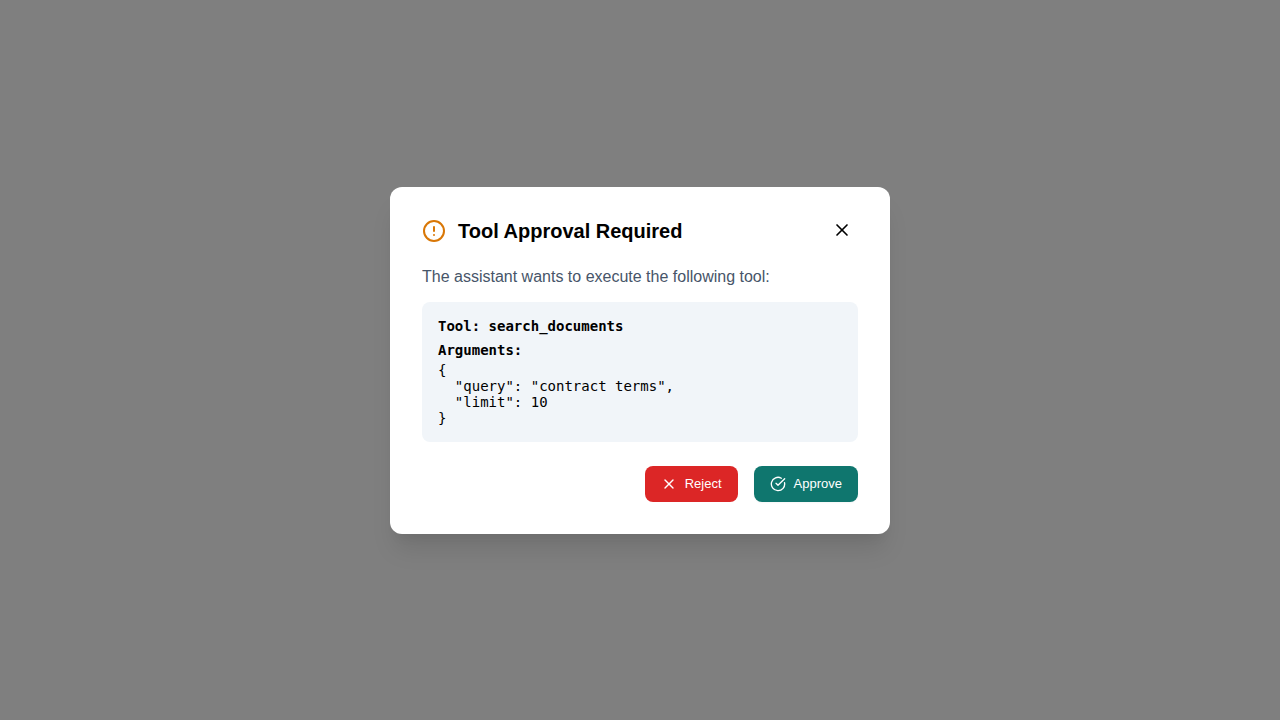
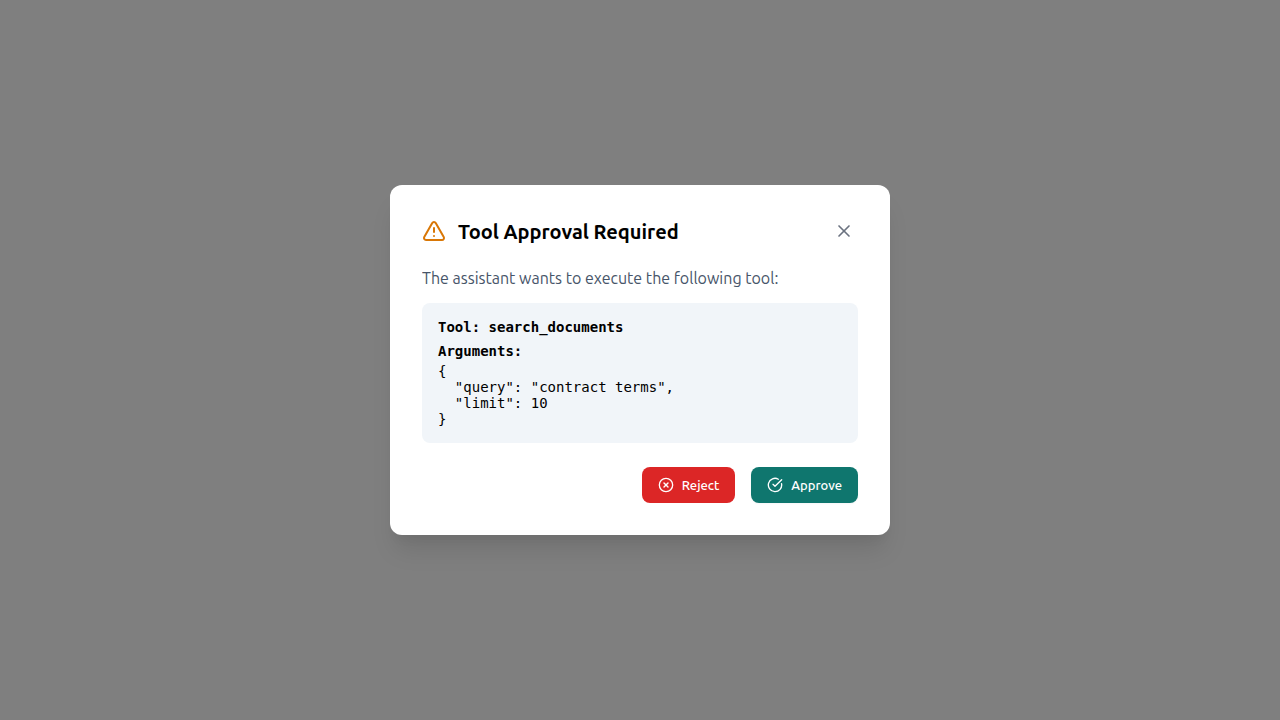
Address PR review: AnimatePresence + a11y + maxHeight precision
Addresses Claude review on #1787:
- Wrap ApprovalDialog inside AnimatePresence with conditional rendering at
  the parent level in both CorpusChat and ChatTray so framer-motion's exit
  variants actually fire on dismiss (previous always-mounted form returned
  null internally and AnimatePresence never observed an unmount).
- ApprovalDialog API: drop redundant `show` prop, require non-null
  `pendingApproval` — gating now lives in the parent.
- maxHeight: calc(100% - 2rem) instead of 100% to account for the
  backdrop's 1rem padding on each side.
- Add role="dialog" + aria-modal="true" + aria-labelledby on the modal
  for screen reader semantics.
- Trim multi-line JSDoc block per CLAUDE.md "one short line max".
- Keep screenshot tag chat--approval-modal--pending stable per
  CLAUDE.md's "filename IS the contract" rule.

Also fixes the CT regression from the close-button change:
- ChatTray.ct.tsx "reopens approval modal when dismissed" was selecting
  the close button by `button:has-text("✕")`; after the unicode→lucide
  swap the selector found nothing. Switched to the canonical
  `getByRole("button", { name: "Close approval modal" })`.

Tests:
- ApprovalDialog.ct.tsx: 6/6 passing (replaced obsolete show=false and
  null-pendingApproval tests with a close-button-callback test that
  exercises the new aria-label).
- ChatTray.ct.tsx: 32/32 passing.
- CorpusChat.ct.tsx: 36/36 passing.
- Full CT suite: 1888 passing, 1 unrelated flake (CamlArticleEditor
[…]

diff --git a/frontend/tests/ApprovalDialog.ct.tsx b/frontend/tests/ApprovalDialog.ct.tsx
@@ -20,7 +20,6 @@ test.describe("ApprovalDialog", () => {
     const component = await mount(
       <ApprovalDialog
         pendingApproval={sampleApproval}
-        show={true}
         onHide={() => {}}
         onDecision={() => {}}
       />
@@ -39,40 +38,35 @@ test.describe("ApprovalDialog", () => {
     await expect(page.getByRole("button", { name: "Approve" })).toBeVisible();
     await expect(page.getByRole("button", { name: "Reject" })).toBeVisible();
 
-    await docScreenshot(page, "chat--approval-dialog--pending");
+    // Modal exposes dialog semantics for screen readers
+    await expect(page.getByRole("dialog")).toBeVisible();
+
+    await docScreenshot(page, "chat--approval-modal--pending");
 
     await component.unmount();
   });
 
-  test("does not render when show is false", async ({ mount, page }) => {
-    const component = await mount(
-      <ApprovalDialog
-        pendingApproval={sampleApproval}
-        show={false}
-        onHide={() => {}}
-        onDecision={() => {}}
-      />
-    );
-
-    await expect(page.getByText("Tool Approval Required")).not.toBeVisible();
-
-    await component.unmount();
-  });
-
-  test("does not render when pendingApproval is null", async ({
+  test("calls onHide when the close button is clicked", async ({
     mount,
     page,
   }) => {
+    let hidden = false;
+
     const component = await mount(
       <ApprovalDialog
-        pendingApproval={null}
-        show={true}
-        onHide={() => {}}
+        pendingApproval={sampleApproval}
+        onHide={() => {
+          hidden = true;
+        }}
         onDecision={() => {}}
       />
     );
 
-    await expect(page.getByText("Tool Approval Required")).not.toBeVisible();
+    const closeBtn = page.getByRole("button", { name: "Close approval modal" });
+    await expect(closeBtn).toBeVisible({ timeout: 5000 });
+    await closeBtn.click();
+
+    expect(hidden).toBe(true);
 
     await component.unmount();
   });
@@ -86,7 +80,6 @@ test.describe("ApprovalDialog", () => {
     const component = await mount(
       <ApprovalDialog
         pendingApproval={sampleApproval}
-        show={true}
         onHide={() => {}}
         onDecision={(approved) => {
           decision = approved;
@@ -113,7 +106,6 @@ test.describe("ApprovalDialog", () => {
     const component = await mount(
       <ApprovalDialog
         pendingApproval={sampleApproval}
-        show={true}
         onHide={() => {}}
         onDecision={(approved) => {
           decision = approved;
@@ -135,7 +127,6 @@ test.describe("ApprovalDialog", () => {
     const component = await mount(
       <ApprovalDialog
         pendingApproval={sampleApproval}
-        show={true}
         onHide={() => {}}
         onDecision={() => {}}
       />
@@ -170,7 +161,6 @@ test.describe("ApprovalDialog", () => {
     const component = await mount(
       <ApprovalDialog
         pendingApproval={longArgsApproval}
-        show={true}
         onHide={() => {}}
         onDecision={() => {}}
       />

diff --git a/frontend/src/components/chat/ApprovalDialog.tsx b/frontend/src/components/chat/ApprovalDialog.tsx
@@ -1,11 +1,3 @@
-/**
- * ApprovalDialog
- *
- * Single source of truth for the "Tool Approval Required" overlay shown when
- * an agent tool call needs human confirmation. Used by both CorpusChat and
- * the document right-tray ChatTray.
- */
-
 import React from "react";
 import { motion } from "framer-motion";
 import { AlertTriangle, CheckCircle, X, XCircle } from "lucide-react";
@@ -17,24 +9,16 @@ import { RequestingAgentAttribution } from "./RequestingAgentAttribution";
 export type { PendingApproval };
 
 export interface ApprovalDialogProps {
-  /** Pending approval data (tool call info). Null if no approval is pending. */
-  pendingApproval: PendingApproval | null;
-  /** Whether the overlay should be visible. */
-  show: boolean;
-  /** Callback to hide the overlay (e.g. clicking the X button). */
+  pendingApproval: PendingApproval;
   onHide: () => void;
-  /** Callback when the user approves or rejects the tool call. */
   onDecision: (approved: boolean) => void;
 }
 
 export const ApprovalDialog: React.FC<ApprovalDialogProps> = ({
   pendingApproval,
-  show,
   onHide,
   onDecision,
 }) => {
-  if (!pendingApproval || !show) return null;
-
   return (
     <motion.div
       style={{
@@ -55,13 +39,16 @@ export const ApprovalDialog: React.FC<ApprovalDialogProps> = ({
       exit={{ opacity: 0 }}
     >
       <motion.div
+        role="dialog"
+        aria-modal="true"
+        aria-labelledby="approval-dialog-title"
         style={{
           backgroundColor: "white",
           borderRadius: "12px",
           padding: "2rem",
           maxWidth: "500px",
           width: "100%",
-          maxHeight: "100%",
+          maxHeight: "calc(100% - 2rem)",
           boxSizing: "border-box",
           display: "flex",
           flexDirection: "column",
@@ -85,7 +72,10 @@ export const ApprovalDialog: React.FC<ApprovalDialogProps> = ({
             size={24}
             style={{ color: OS_LEGAL_COLORS.folderIcon }}
           />
-          <h3 style={{ margin: 0, fontSize: "1.25rem", fontWeight: 600 }}>
+          <h3
+            id="approval-dialog-title"
+            style={{ margin: 0, fontSize: "1.25rem", fontWeight: 600 }}
+          >
             Tool Approval Required
           </h3>
           <button

diff --git a/frontend/src/components/corpuses/CorpusChat.tsx b/frontend/src/components/corpuses/CorpusChat.tsx
@@ -1581,12 +1581,15 @@ export const CorpusChat: React.FC<CorpusChatProps> = ({
       </ConversationIndicator>
 
       {/* Approval Overlay */}
-      <ApprovalDialog
-        pendingApproval={pendingApproval}
-        show={showApprovalModal}
-        onHide={() => setShowApprovalModal(false)}
-        onDecision={sendApprovalDecision}
-      />
+      <AnimatePresence>
+        {showApprovalModal && pendingApproval && (
+          <ApprovalDialog
+            pendingApproval={pendingApproval}
+            onHide={() => setShowApprovalModal(false)}
+            onDecision={sendApprovalDecision}
+          />
+        )}
+      </AnimatePresence>
     </ChatContainer>
   );
 };

diff --git a/frontend/src/components/knowledge_base/document/right_tray/ChatTray.tsx b/frontend/src/components/knowledge_base/document/right_tray/ChatTray.tsx
@@ -1218,12 +1218,13 @@ export const ChatTray: React.FC<ChatTrayProps> = ({
 
       {/* Approval Overlay */}
       <AnimatePresence>
-        <ApprovalDialog
-          pendingApproval={pendingApproval}
-          show={showApprovalModal}
-          onHide={() => setShowApprovalModal(false)}
-          onDecision={sendApprovalDecision}
-        />
+        {showApprovalModal && pendingApproval && (
+          <ApprovalDialog
+            pendingApproval={pendingApproval}
+            onHide={() => setShowApprovalModal(false)}
+            onDecision={sendApprovalDecision}
+          />
+        )}
       </AnimatePresence>
     </ChatContainer>
   );

diff --git a/frontend/tests/ChatTray.ct.tsx b/frontend/tests/ChatTray.ct.tsx
@@ -814,7 +814,7 @@ test("reopens approval modal when dismissed", async ({ mount, page }) => {
   });
 
   // Dismiss modal
-  const closeBtn = page.locator('button:has-text("✕")').first();
+  const closeBtn = page.getByRole("button", { name: "Close approval modal" });
   await expect(closeBtn).toBeVisible({ timeout: TIMEOUTS.MEDIUM });
   await closeBtn.click();
 

diff --git a/CHANGELOG.md b/CHANGELOG.md
@@ -9,7 +9,7 @@ and this project adheres to [Semantic Versioning](https://semver.org/spec/v2.0.0
 
 ### Fixed
 
-- **Tool approval modal overflows the viewport when arguments are large** (`frontend/src/components/chat/ApprovalDialog.tsx`, `frontend/src/components/corpuses/CorpusChat.tsx`, `frontend/src/components/knowledge_base/document/right_tray/ChatTray.tsx`). Both approval popups for pending agent tool calls rendered the tool's JSON `arguments` inside a `<pre style={{ whiteSpace: "pre-wrap" }}>` nested in an inner modal that had only `maxWidth: 500px` — no `maxHeight`, no scroll container. When a tool call carried a multi-thousand-character payload (e.g. `update_corpus_description` with a long `new_content` string), the inner modal grew unbounded, the Approve / Reject buttons were pushed off-screen, and the user couldn't act on the request. Fix: inner modal is now a `display: flex; flex-direction: column` box capped at `maxHeight: 100%` with `boxSizing: border-box`; the body section (`flex: 1; minHeight: 0; overflowY: auto`) scrolls; header and footer (`flexShrink: 0`) stay pinned so the action buttons remain visible. The `<pre>` gains `overflowWrap: anywhere` so a single unbroken token can't blow out the width. New regression test `ApprovalDialog › constrains modal height and scrolls body when args are very long` (`frontend/tests/ApprovalDialog.ct.tsx`) mounts the modal with ~10k-char `new_content` arguments and asserts both buttons stay within the viewport's `boundingBox`.
+- **Tool approval modal overflows the viewport when arguments are large** (`frontend/src/components/chat/ApprovalDialog.tsx`, `frontend/src/components/corpuses/CorpusChat.tsx`, `frontend/src/components/knowledge_base/document/right_tray/ChatTray.tsx`). Both approval popups for pending agent tool calls rendered the tool's JSON `arguments` inside a `<pre style={{ whiteSpace: "pre-wrap" }}>` nested in an inner modal that had only `maxWidth: 500px` — no `maxHeight`, no scroll container. When a tool call carried a multi-thousand-character payload (e.g. `update_corpus_description` with a long `new_content` string), the inner modal grew unbounded, the Approve / Reject buttons were pushed off-screen, and the user couldn't act on the request. Fix: inner modal is now a `display: flex; flex-direction: column` box capped at `maxHeight: calc(100% - 2rem)` (accounts for the backdrop's 1rem padding on each side) with `boxSizing: border-box`; the body section (`flex: 1; minHeight: 0; overflowY: auto`) scrolls; header and footer (`flexShrink: 0`) stay pinned so the action buttons remain visible. The `<pre>` gains `overflowWrap: anywhere` so a single unbroken token can't blow out the width. The dialog now exposes proper `role="dialog"` + `aria-modal="true"` + `aria-labelledby` for screen readers. New regression test `ApprovalDialog › constrains modal height and scrolls body when args are very long` (`frontend/tests/ApprovalDialog.ct.tsx`) mounts the modal with ~10k-char `new_content` arguments and asserts both buttons stay within the viewport's `boundingBox`.
 
 - **Loading splash rebrand + mobile coverage** (follow-up to PR #1781). The `ModernLoadingDisplay` widget (used by `AuthGate` and every route-level loader) still showed the legacy `os_legal_FullColor.png` and the string `Loading OpenContracts`; on mobile it also bled through to the underlying app chrome.
   - **Brand swap.** `frontend/src/components/widgets/ModernLoadingDisplay.tsx` now renders the `CiteMark` SVG (slate brackets + teal node) at 60px in place of the PNG, and the default message is `Loading cite`. The unreachable lucide-icon fallback path (`useOsLogo` was hard-defaulted to `true` with no caller overriding it) and unused `rotate` keyframe were removed. `AuthGate.tsx` now passes `message="Initializing cite"` (test assertion updated in `AuthGate.test.tsx`). Asset `frontend/src/assets/images/os_legal_FullColor.png` deleted.
@@ -19,9 +19,7 @@ and this project adheres to [Semantic Versioning](https://semver.org/spec/v2.0.0
 
 ### Changed
 
-- **Approval modal DRY pass: collapsed the two ~90%-duplicated approval popups into a single `ApprovalDialog`** (`frontend/src/components/chat/ApprovalDialog.tsx`). The corpus-chat `ApprovalModal` (`frontend/src/components/corpuses/corpus_chat/ApprovalModal.tsx`) and the document-tray `ApprovalOverlay` (`frontend/src/components/knowledge_base/document/right_tray/ApprovalOverlay.tsx`) were near-identical copy-paste — same markup, same flex column scroll structure, with only cosmetic divergence (header icon `AlertCircle` vs `AlertTriangle`, Reject icon `X` vs `XCircle`, unicode `✕` vs lucide `<X>` for the close button, slightly different prop naming). They have been replaced with one shared `ApprovalDialog` component in `frontend/src/components/chat/ApprovalDialog.tsx` (the chat-domain sibling of the existing `RequestingAgentAttribution`). `CorpusChat` (`frontend/src/components/corpuses/CorpusChat.tsx`) and `ChatTray` (`frontend/src/components/knowledge_base/document/right_tray/ChatTray.tsx`) now render `ApprovalDialog` directly with `{ pendingApproval, show, onHide, onDecision }` props. The old `ApprovalModal.tsx` file is deleted; `ApprovalOverlay.tsx` is reduced to just the small `ReopenApprovalButton` that's only relevant to the document tray. Standardized icons (AlertTriangle for the header, XCircle for Reject, lucide `<X>` for close with an `aria-label`) and removed the redundant `wordBreak: break-word` (superseded by `overflowWrap: anywhere`) per Claude review on PR #1787. `PendingApproval` re-export pointers in `useChatSendHandlers` / `useChatStreamHandlers` / `useChatAgentMessageHandler` and their unit tests repoint from `./ApprovalOverlay` to the canonical `components/chat/types`. The CT test file is renamed `frontend/tests/ApprovalModal.ct.tsx` → `frontend/tests/ApprovalDialog.ct.tsx` (and screenshot tag `chat--approval-modal--pending` → `chat--approval-dialog--pending`). All 7 CT tests + 90 hook unit tests pass.
-
-### Changed
+- **Approval modal DRY pass: collapsed the two ~90%-duplicated approval popups into a single `ApprovalDialog`** (`frontend/src/components/chat/ApprovalDialog.tsx`). The corpus-chat `ApprovalModal` (`frontend/src/components/corpuses/corpus_chat/ApprovalModal.tsx`) and the document-tray `ApprovalOverlay` (`frontend/src/components/knowledge_base/document/right_tray/ApprovalOverlay.tsx`) were near-identical copy-paste — same markup, same flex column scroll structure, with only cosmetic divergence (header icon `AlertCircle` vs `AlertTriangle`, Reject icon `X` vs `XCircle`, unicode `✕` vs lucide `<X>` for the close button, slightly different prop naming). They have been replaced with one shared `ApprovalDialog` component in `frontend/src/components/chat/ApprovalDialog.tsx` (the chat-domain sibling of the existing `RequestingAgentAttribution`). `CorpusChat` (`frontend/src/components/corpuses/CorpusChat.tsx`) and `ChatTray` (`frontend/src/components/knowledge_base/document/right_tray/ChatTray.tsx`) now render `ApprovalDialog` conditionally inside an `AnimatePresence` (`{showApprovalModal && pendingApproval && <ApprovalDialog … />}`) so framer-motion's `exit` variants actually fire on dismiss — the previous always-mounted form returned `null` internally and `AnimatePresence` never observed an unmount. `ApprovalDialog`'s API consequently dropped the redundant `show` prop and made `pendingApproval` non-nullable. The old `ApprovalModal.tsx` file is deleted; `ApprovalOverlay.tsx` is reduced to just the small `ReopenApprovalButton` that's only relevant to the document tray. Standardized icons (AlertTriangle for the header, XCircle for Reject, lucide `<X>` for close with an `aria-label="Close approval modal"`) and removed the redundant `wordBreak: break-word` (superseded by `overflowWrap: anywhere`) per Claude review on PR #1787. The screenshot tag stays `chat--approval-modal--pending` per CLAUDE.md's "filename IS the contract" rule, so existing docs referencing that path keep resolving. `PendingApproval` re-export pointers in `useChatSendHandlers` / `useChatStreamHandlers` / `useChatAgentMessageHandler` and their unit tests repoint from `./ApprovalOverlay` to the canonical `components/chat/types`. The CT test file is renamed `frontend/tests/ApprovalModal.ct.tsx` → `frontend/tests/ApprovalDialog.ct.tsx`. All 6 CT tests + 58 hook unit tests pass.
 
 - **Breaking — `ModernLoadingDisplay.fullScreen` prop removed.** The `fullScreen?: boolean` prop on `frontend/src/components/widgets/ModernLoadingDisplay.tsx` is gone; the overlay (`position: fixed; inset: 0`, paper-tinted gradient + blur) is now the default. Panel-embedded callers opt out with the new `inline` boolean prop. Downstream forks or plugin builds that pass `fullScreen={true}` will get a TypeScript error — drop the prop. Anything that passed `fullScreen={false}` (none in-tree) should switch to `inline`. Component is also now accessible (`role="status"`, `aria-live="polite"`, `aria-busy="true"`) and reads the mobile shrink breakpoint from `SMALL_MOBILE_BREAKPOINT` in `frontend/src/assets/configurations/constants.ts` instead of an inline `480px` magic number.
 
